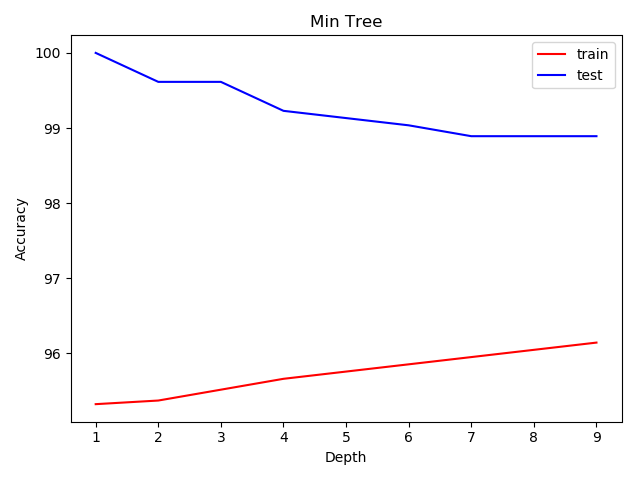
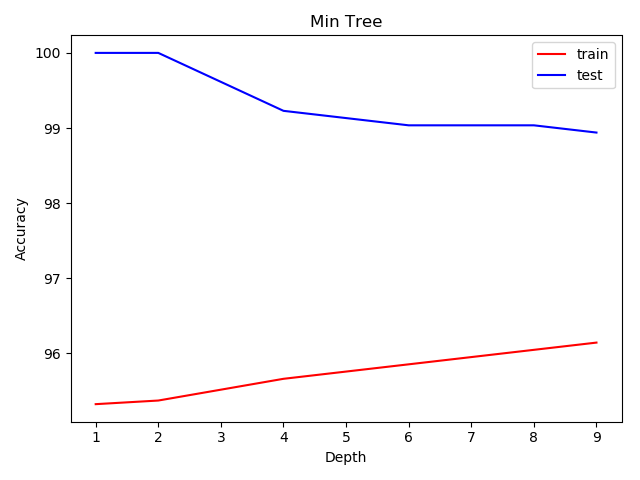
only gini

Changed region(s): [[0.625, 0.25, 0.9375, 0.3125], [0.2188, 0.125, 0.3438, 0.1875], [0.1562, 0.0938, 0.2812, 0.1562]]

diff --git a/main.py b/main.py
@@ -161,10 +161,8 @@ class Solver:
             trees = []
             datasets = generateRandomDatasets(dataset[0])  # беру набор случайных элементов тренировочной выборки
             for dt in datasets:  # и обучаю на них лес
-                criterionInd = random.randint(0, 1)
-                splitterInd = random.randint(0, 1)
-                tmpClassifier = DecisionTreeClassifier(criterion=self.criterions[criterionInd],
-                                                       splitter=self.splitters[splitterInd])
+                tmpClassifier = DecisionTreeClassifier(criterion="gini",
+                                                       splitter="best")
                 tmpClassifier.fit(dt.classes, dt.label)
                 trees.append(tmpClassifier)
             return self.Wood(trees, idx)
